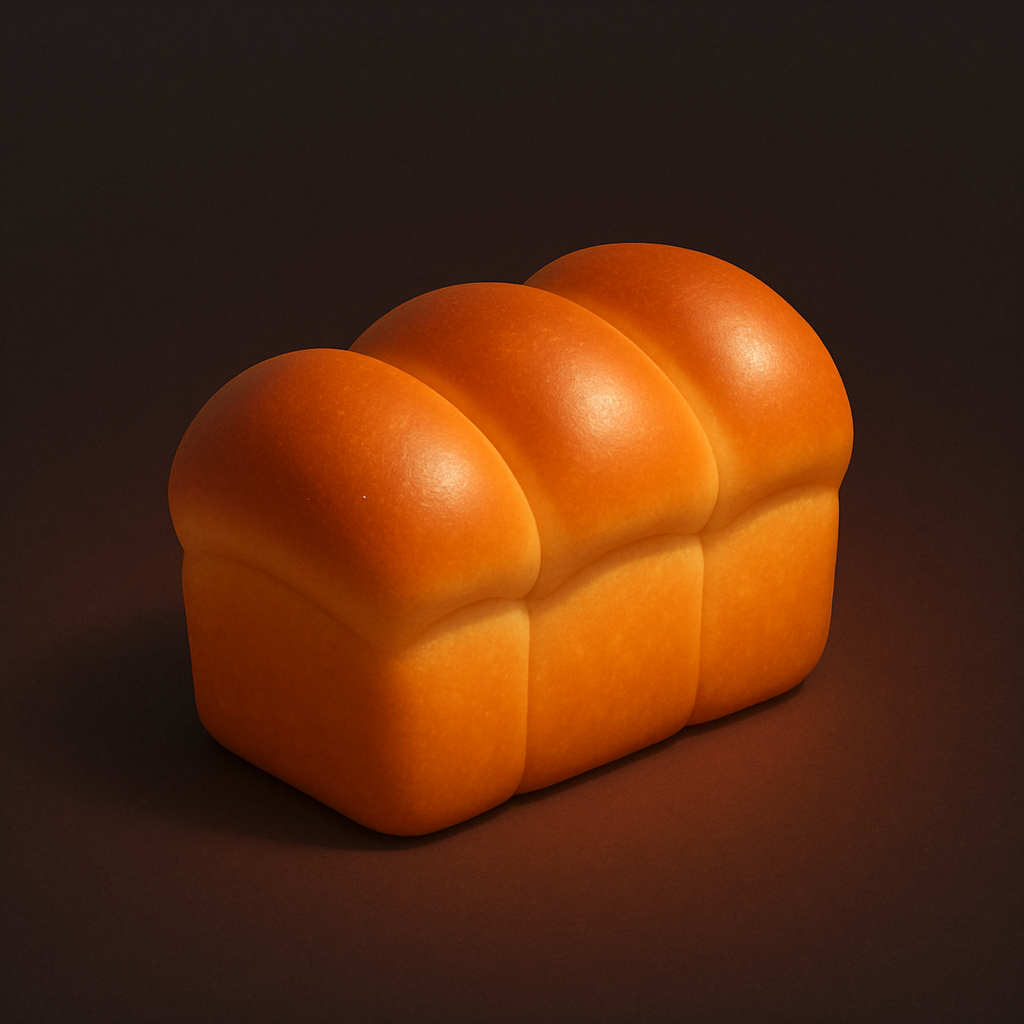
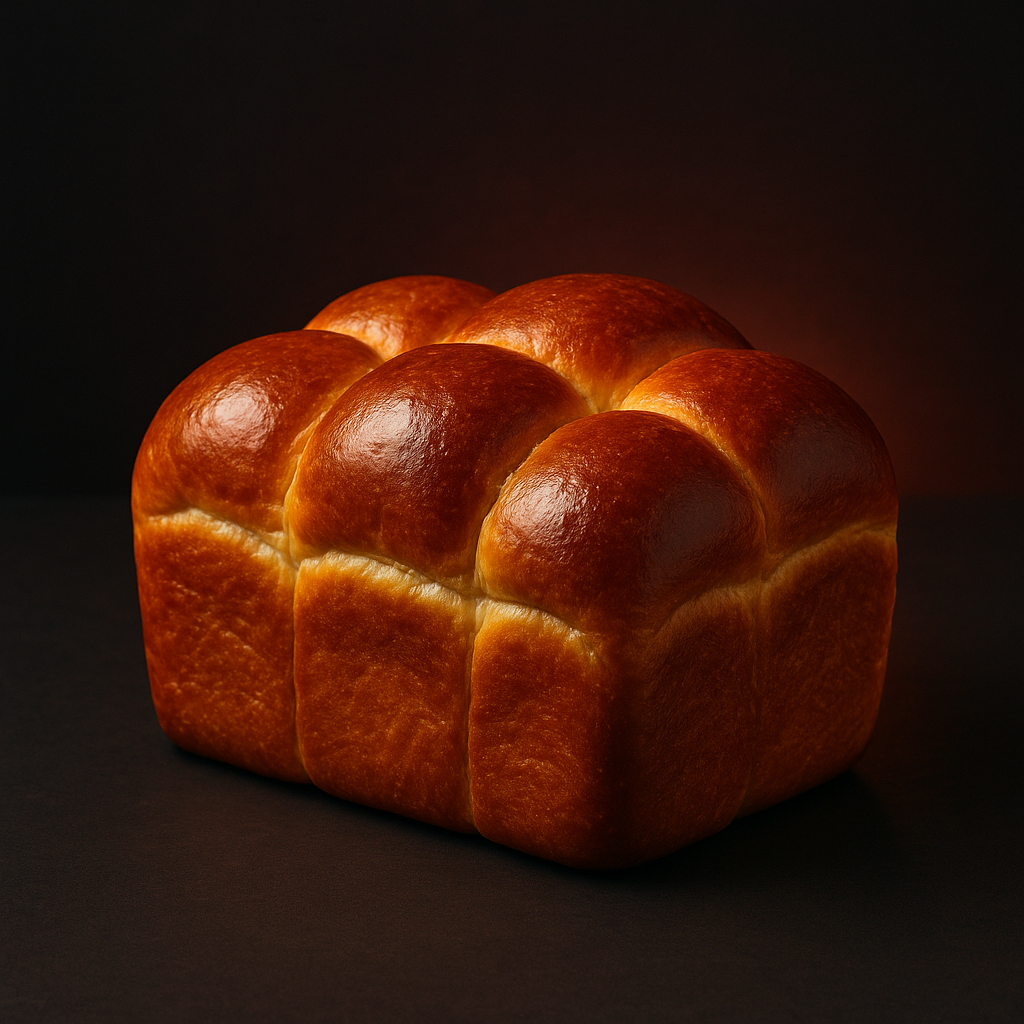
fix: oven picker — 4 pizza ovens, 5 bread ovens with DecisionList, fix expand state, 56px thumbnails, pain_campagne as bread image

diff --git a/app/components/OvenPicker.tsx b/app/components/OvenPicker.tsx
@@ -1,11 +1,10 @@
 'use client';
-import { useState } from 'react';
-import { useTranslations, useLocale } from 'next-intl';
-import { OVEN_TYPES, BREAD_OVEN_TYPES, type AnyOvenType, type OvenType, type BreadOvenType } from '../data';
+import { useState, useEffect } from 'react';
+import { useTranslations } from 'next-intl';
+import { type AnyOvenType } from '../data';
 import DecisionList from './DecisionList';
 import DecisionSummary from './DecisionSummary';
 
-// Ovens to EXCLUDE per bread style — truly incompatible (geometry or technique)
 const BREAD_OVEN_EXCLUDES: Record<string, string[]> = {
   baguette:      ['dutch_oven'],
   fougasse:      ['dutch_oven'],
@@ -22,144 +21,73 @@ interface OvenPickerProps {
   onSelect: (oven: AnyOvenType) => void;
 }
 
-// Maps simplified UI id → existing AnyOvenType data key
-const PIZZA_OVEN_TO_DATA: Record<string, AnyOvenType> = {
-  home:       'home_oven_standard',
-  stone:      'home_oven_steel',
-  steel:      'home_oven_steel',
-  ooni:       'pizza_oven',
-  gozney:     'pizza_oven',
-  woodfired:  'pizza_oven',
-  deck:       'pizza_oven',
-  pan:        'home_oven_standard',
-  convection: 'home_oven_standard',
-};
-
-// Maps data key → preferred simplified UI id for display
-const DATA_TO_PIZZA_OVEN: Partial<Record<AnyOvenType, string>> = {
-  home_oven_standard: 'home',
-  home_oven_steel:    'stone',
-  pizza_oven:         'ooni',
-  electric_pizza:     'home',
-};
-
 export default function OvenPicker({ bakeType, styleKey, selected, onSelect }: OvenPickerProps) {
   const t = useTranslations('oven');
-  const locale = useLocale();
-  const [expanded, setExpanded] = useState(!selected);
-  const [hoveredKey, setHoveredKey] = useState<string | null>(null);
-  const [showAll, setShowAll] = useState(false);
+  const [expanded, setExpanded] = useState(true);
 
-  if (bakeType === 'pizza') {
-    const options = [
-      { id: 'home',       image: '/oven_standard.png',      title: t('home.title'),       tagline: t('home.tagline') },
-      { id: 'stone',      image: '/oven_stone.png',          title: t('stone.title'),      tagline: t('stone.tagline') },
-      { id: 'steel',      image: '/oven_stone.png',          title: t('steel.title'),      tagline: t('steel.tagline') },
-      { id: 'ooni',       image: '/oven_fire.png',           title: t('ooni.title'),       tagline: t('ooni.tagline') },
-      { id: 'gozney',     image: '/oven_fire.png',           title: t('gozney.title'),     tagline: t('gozney.tagline') },
-      { id: 'woodfired',  image: '/oven_wood_bread.png',     title: t('woodfired.title'),  tagline: t('woodfired.tagline') },
-      { id: 'deck',       image: '/oven_steam.png',          title: t('deck.title'),       tagline: t('deck.tagline') },
-      { id: 'pan',        image: '/oven_standard_bread.png', title: t('pan.title'),        tagline: t('pan.tagline') },
-      { id: 'convection', image: '/oven_standard.png',       title: t('convection.title'), tagline: t('convection.tagline') },
-    ];
+  const pizzaOptions = [
+    { id: 'pizza_oven',         image: '/oven_fire.png',           title: t('pizzaOven.title'),     tagline: t('pizzaOven.tagline') },
+    { id: 'home_oven_steel',    image: '/oven_stone.png',          title: t('homeSteel.title'),     tagline: t('homeSteel.tagline') },
+    { id: 'home_oven_standard', image: '/oven_standard.png',       title: t('homeStandard.title'),  tagline: t('homeStandard.tagline') },
+    { id: 'electric_pizza',     image: '/oven_electric.png',       title: t('electricPizza.title'), tagline: t('electricPizza.tagline') },
+  ];
 
-    const selectedDisplayId = selected ? (DATA_TO_PIZZA_OVEN[selected] ?? '') : '';
-    const selectedOpt = options.find(o => o.id === selectedDisplayId);
+  const allBreadOptions = [
+    { id: 'dutch_oven',            image: '/oven_dutch.png',          title: t('dutchOven.title'),  tagline: t('dutchOven.tagline') },
+    { id: 'home_oven_stone_bread', image: '/oven_stone_bread.png',    title: t('homeStoneB.title'), tagline: t('homeStoneB.tagline') },
+    { id: 'standard_bread',        image: '/oven_standard_bread.png', title: t('standardB.title'),  tagline: t('standardB.tagline') },
+    { id: 'wood_fired',            image: '/oven_wood_bread.png',     title: t('woodFired.title'),  tagline: t('woodFired.tagline') },
+    { id: 'steam_oven',            image: '/oven_steam.png',          title: t('steamOven.title'),  tagline: t('steamOven.tagline') },
+  ];
 
-    if (!expanded && selectedOpt) {
-      return (
-        <DecisionSummary
-          thumbnail={selectedOpt.image}
-          title={selectedOpt.title}
-          tagline={selectedOpt.tagline}
-          onExpand={() => setExpanded(true)}
-        />
-      );
+  const defaultId = bakeType === 'pizza' ? 'home_oven_steel' : 'dutch_oven';
+
+  useEffect(() => {
+    if (selected === null) {
+      onSelect(defaultId as AnyOvenType);
     }
+  // eslint-disable-next-line react-hooks/exhaustive-deps
+  }, []);
 
+  const options = bakeType === 'pizza'
+    ? pizzaOptions
+    : allBreadOptions.filter(o => {
+        const excluded = styleKey ? (BREAD_OVEN_EXCLUDES[styleKey] ?? []) : [];
+        return !excluded.includes(o.id);
+      });
+
+  const selectedId = selected ?? '';
+  const selectedOpt = options.find(o => o.id === selectedId);
+
+  if (!expanded && selectedOpt) {
     return (
-      <div>
-        <div style={{ marginBottom: 16 }}>
-          <h2 style={{ fontFamily: 'Playfair Display', fontSize: 22, fontWeight: 700, color: 'var(--char)', margin: 0 }}>
-            {t('heading')}
-          </h2>
-          <p style={{ fontSize: 13, color: 'var(--smoke)', margin: '4px 0 0', fontFamily: 'DM Sans' }}>
-            {t('subtitle')}
-          </p>
-        </div>
-        <DecisionList
-          options={options}
-          selectedId={selectedDisplayId}
-          onSelect={(id) => {
-            onSelect(PIZZA_OVEN_TO_DATA[id] ?? 'home_oven_standard' as AnyOvenType);
-            setExpanded(false);
-          }}
-        />
-      </div>
+      <DecisionSummary
+        thumbnail={selectedOpt.image}
+        title={selectedOpt.title}
+        tagline={selectedOpt.tagline}
+        onExpand={() => setExpanded(true)}
+      />
     );
   }
 
-  // ── Bread path: existing grid ──────────────────
-  const allEntries = Object.entries(BREAD_OVEN_TYPES);
-  const excluded = styleKey ? (BREAD_OVEN_EXCLUDES[styleKey] ?? []) : [];
-  const visibleEntries = showAll ? allEntries : allEntries.filter(([key]) => !excluded.includes(key));
-  const hiddenCount = allEntries.length - visibleEntries.length;
-
   return (
     <div>
-      <div style={{
-        display: 'grid',
-        gridTemplateColumns: 'repeat(auto-fill, minmax(150px, 1fr))',
-        gap: '.75rem',
-      }}>
-        {visibleEntries.map(([key, oven]) => {
-          const isSelected = selected === key;
-          const o = oven as { name: string; nameFr?: string; emoji: string; image?: string; desc: string; descFr?: string };
-          return (
-            <div
-              key={key}
-              onClick={() => onSelect(key as AnyOvenType)}
-              onMouseEnter={() => setHoveredKey(key)}
-              onMouseLeave={() => setHoveredKey(null)}
-              style={{
-                border: `2px solid ${isSelected ? 'var(--terra)' : 'var(--border)'}`,
-                borderRadius: '18px',
-                padding: '1rem .75rem',
-                cursor: 'pointer',
-                background: isSelected ? '#FFF8F3' : 'var(--warm)',
-                transition: 'all .25s',
-                boxShadow: hoveredKey === key ? 'var(--card-shadow-hover)' : 'var(--card-shadow)',
-                transform: hoveredKey === key ? 'translateY(-3px)' : 'none',
-                display: 'flex', flexDirection: 'column', alignItems: 'center', textAlign: 'center',
-              }}
-            >
-              {o.image ? (
-                <img src={o.image} alt={o.name} style={{ width: '100%', aspectRatio: '1 / 1', objectFit: 'cover', borderRadius: '10px', marginBottom: '.6rem' }} />
-              ) : (
-                <span style={{ fontSize: '2rem', marginBottom: '.6rem' }}>{o.emoji}</span>
-              )}
-              <div style={{ fontWeight: 700, fontSize: '.88rem', marginBottom: '.25rem', color: 'var(--char)' }}>
-                {locale === 'fr' && o.nameFr ? o.nameFr : o.name}
-              </div>
-              <div style={{ fontSize: '.72rem', color: 'var(--smoke)', lineHeight: 1.45 }}>
-                {locale === 'fr' && o.descFr ? o.descFr : o.desc}
-              </div>
-            </div>
-          );
-        })}
+      <div style={{ marginBottom: 16 }}>
+        <h2 style={{ fontFamily: 'Playfair Display', fontSize: 22, fontWeight: 700, color: 'var(--char)', margin: 0 }}>
+          {t('heading')}
+        </h2>
+        <p style={{ fontSize: 13, color: 'var(--smoke)', margin: '4px 0 0', fontFamily: 'DM Sans' }}>
+          {t('subtitle')}
+        </p>
       </div>
-      {hiddenCount > 0 && !showAll && (
-        <button
-          onClick={() => setShowAll(true)}
-          style={{
-            marginTop: '.75rem', background: 'none', border: 'none', cursor: 'pointer',
-            fontSize: '.72rem', color: 'var(--smoke)', fontFamily: 'var(--font-dm-mono)',
-            padding: 0, textDecoration: 'underline', textUnderlineOffset: '2px',
-          }}
-        >
-          Show {hiddenCount} more option{hiddenCount > 1 ? 's' : ''} (not typical for this style)
-        </button>
-      )}
+      <DecisionList
+        options={options}
+        selectedId={selectedId}
+        onSelect={(id) => {
+          onSelect(id as AnyOvenType);
+          setExpanded(false);
+        }}
+      />
     </div>
   );
 }

diff --git a/scripts/generate-bread-images.js b/scripts/generate-bread-images.js
@@ -1,0 +1,110 @@
+// scripts/generate-bread-images.js
+// Regenerates ALL 9 bread style images with consistent photography style
+// Run: node scripts/generate-bread-images.js
+
+const OpenAI = require('openai');
+const fs = require('fs');
+const path = require('path');
+require('dotenv').config({ path: '.env.local' });
+
+const client = new OpenAI({ apiKey: process.env.OPENAI_API_KEY });
+const OUTPUT_DIR = path.join(__dirname, '../public');
+const MODEL = 'gpt-image-1';
+const DELAY_MS = 3000;
+
+const STYLE = `
+Single bread loaf only, centered, square composition.
+Slight top-down angle (~30 degrees).
+Soft warm lighting from above-left with a strong warm rim light from behind-right
+to separate the bread from the background.
+Gentle shadow directly underneath.
+Background is deep charcoal (#1A1612) with a subtle warm reddish-terracotta glow
+(#C4522A), low intensity, smooth gradient only.
+Premium food photography style with soft volume and natural texture.
+Not a logo, not a symbol, not flat icon style.
+Authentic bread texture, real scoring cuts clearly visible.
+No plate, no board, no tray, no parchment, no flour dusting, no props, no hands.
+No text, no labels.
+`.trim().replace(/\s+/g,' ');
+
+const BREADS = [
+  {
+    id: 'pain_campagne',
+    prompt: STYLE + ' A rustic round pain de campagne country bread loaf. Golden-brown crust dusted with flour, 3 bold parallel diagonal scoring cuts clearly open. Artisan and premium. Warm amber highlights on the scoring cuts.',
+  },
+  {
+    id: 'pain_levain',
+    prompt: STYLE + ' A round sourdough pain au levain loaf. Golden-brown crust, elegant decorative star or wheat-ear scoring pattern on top, clearly open cuts showing the structure. Slightly organic shape, artisan look.',
+  },
+  {
+    id: 'baguette',
+    prompt: STYLE + ' A classic French baguette. Long slim loaf placed diagonally across the frame. Golden-brown crust with 7 diagonal scoring cuts (grignes) clearly open. Crisp authentic French baguette.',
+  },
+  {
+    id: 'pain_complet',
+    prompt: STYLE + ' A round wholemeal pain complet loaf. Medium-brown darker tone than white bread, dense looking. 2-3 scoring cuts on top. Strong warm rim lighting separates the loaf from the background. Clearly visible surface texture.',
+  },
+  {
+    id: 'pain_seigle',
+    prompt: STYLE + ' A round dark rye bread pain de seigle. Very dark brown-grey crust, compact and dense. 3 parallel diagonal scoring cuts. STRONG warm amber rim lighting from behind-right creates a clear glowing edge separating the dark loaf from the dark background. The loaf must be clearly visible with warm highlights.',
+  },
+  {
+    id: 'fougasse',
+    prompt: STYLE + ' A fougasse bread. Flat wide oval shape. Decorative oval cut openings through the dough in a leaf or tree pattern. Golden-brown crust. Clearly flat and wide, cut openings clearly visible through the dough.',
+  },
+  {
+    id: 'brioche',
+    prompt: STYLE + ' A brioche loaf with 6 soft rounded domed segments arranged in two rows of 3. Deep golden-brown glossy crust from egg wash. Enriched, plump and elegant. Smooth and clearly enriched-looking.',
+  },
+  {
+    id: 'pain_mie',
+    prompt: STYLE + ' A pain de mie sandwich loaf. Square structured shape with a flat top and smooth pale golden crust. Clean geometric rectangular silhouette. Soft and clearly a sandwich loaf.',
+  },
+  {
+    id: 'pain_viennois',
+    prompt: STYLE + ' A pain viennois. Elongated oval enriched bread loaf. Smooth golden-brown crust with 6 shallow diagonal scoring cuts. Warm golden colour with slight gloss from egg wash. Clearly soft and enriched, not rustic.',
+  },
+];
+
+async function sleep(ms) { return new Promise(r => setTimeout(r, ms)); }
+
+async function generateAll() {
+  let generated = 0; const failed = [];
+
+  console.log('\nBaker Hub Bread Image Generator');
+  console.log('Model: ' + MODEL + ' | Quality: high');
+  console.log('Breads: ' + BREADS.length);
+  console.log('Est. cost: ~$' + (BREADS.length * 0.08).toFixed(2) + '\n');
+
+  for (let i = 0; i < BREADS.length; i++) {
+    const bread = BREADS[i];
+    const filepath = path.join(OUTPUT_DIR, bread.id + '.png');
+
+    try {
+      console.log('[' + (i+1) + '/' + BREADS.length + '] ' + bread.id + '...');
+      const response = await client.images.generate({
+        model: MODEL,
+        prompt: bread.prompt,
+        n: 1,
+        size: '1024x1024',
+        quality: 'high',
+        output_format: 'png',
+      });
+      const imageBuffer = Buffer.from(response.data[0].b64_json, 'base64');
+      fs.writeFileSync(filepath, imageBuffer);
+      console.log('[' + (i+1) + '/' + BREADS.length + '] Done: ' + bread.id + '.png');
+      generated++;
+    } catch (err) {
+      console.error('[' + (i+1) + '/' + BREADS.length + '] Failed: ' + bread.id + ' — ' + err.message);
+      failed.push(bread.id);
+    }
+
+    if (i < BREADS.length - 1) await sleep(DELAY_MS);
+  }
+
+  console.log('\nGenerated: ' + generated + ' | Failed: ' + failed.length);
+  if (failed.length) console.log('Failed: ' + failed.join(', '));
+  console.log('\nNext: git add public/pain_*.png public/baguette.png public/fougasse.png public/brioche.png && git commit -m "feat: regenerate all 9 bread images with consistent photography style" && git push');
+}
+
+generateAll().catch(console.error);

diff --git a/app/[locale]/page.tsx b/app/[locale]/page.tsx
@@ -720,7 +720,7 @@ export default function Home() {
           <div style={{ display: 'grid', gridTemplateColumns: '1fr', gap: '12px', margin: '0 0 16px' }}>
             {([
               { type: 'pizza' as BakeType, image: '/pizzas/margherita.png', label: t('bakeType.pizza.label'), desc: t('bakeType.pizza.desc'), activeBorder: 'var(--terra)', activeBg: '#FFF8F3' },
-              { type: 'bread' as BakeType, image: '/baguette.png', label: t('bakeType.bread.label'), desc: t('bakeType.bread.desc'), activeBorder: 'var(--bread)', activeBg: 'var(--bread-l)' },
+              { type: 'bread' as BakeType, image: '/pain_campagne.png', label: t('bakeType.bread.label'), desc: t('bakeType.bread.desc'), activeBorder: 'var(--bread)', activeBg: 'var(--bread-l)' },
             ]).map(opt => (
               <div
                 key={opt.type}

diff --git a/app/components/DecisionList.tsx b/app/components/DecisionList.tsx
@@ -37,7 +37,7 @@ export default function DecisionList({ options, selectedId, onSelect }: Decision
             }}
           >
             <div style={{
-              width: '44px', height: '44px',
+              width: '56px', height: '56px',
               borderRadius: option.thumbnailBg ? '50%' : '8px',
               overflow: 'hidden', flexShrink: 0,
               background: option.thumbnailBg ?? '#1A1612',
